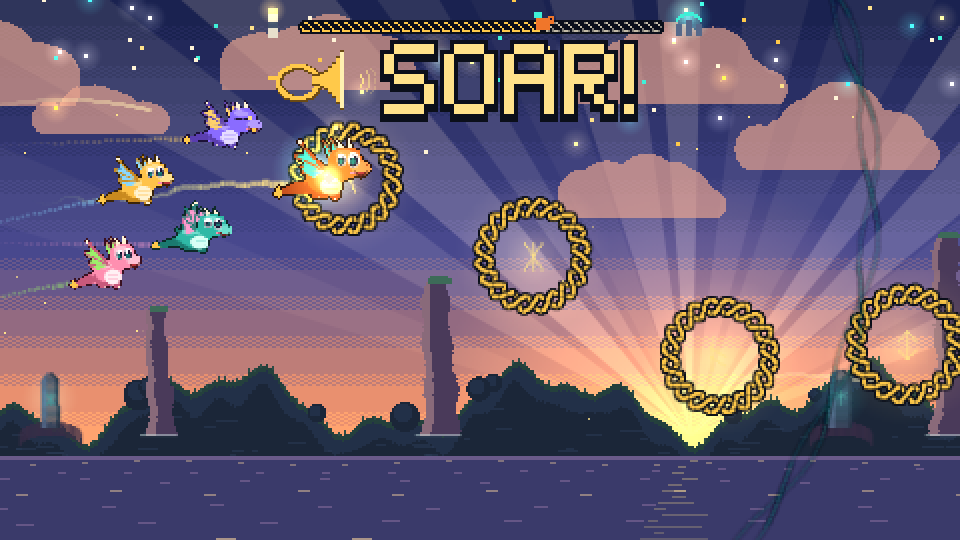
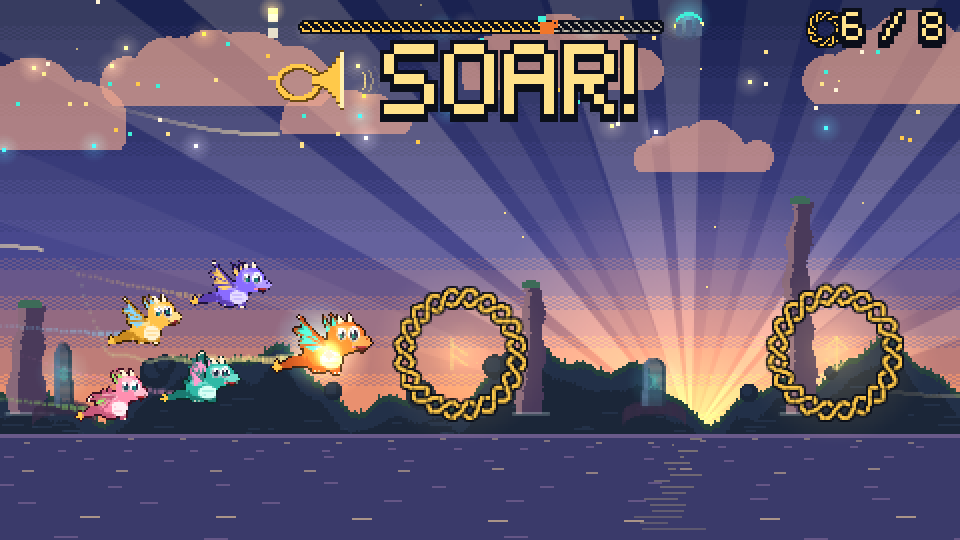
docs + pitch images for the clarity pass

diff --git a/DESIGN_INTENT.md b/DESIGN_INTENT.md
@@ -6,11 +6,11 @@
 | | | |
 |---|---|---|
 | ![](design/02-find-the-eyes.png) | ![](design/03-wing-glow-burst.png) | ![](design/04-brass-swell.png) |
-| *Your light cuts the fog* | *Found! A happy wiggle, wings glowing again* | *The brass swell: the flock joins* |
+| *FIND THE EYES, with a trail of light to them* | *YOU FOUND EMBER!* | *The brass swell: the flock joins* |
 
 ## Guest experience overview
 
-A guest steps onto the footprints in front of a 10-foot projection, raises a big lantern prop, and becomes the keeper of a tiny northern lighthouse. In **about 38 seconds** (never more than about 41), their light finds a frightened young dragon in a storm, gives it the courage to fly, and guides it home under the aurora. There is no losing, no reading, and no clicking. The guest just points a light.
+A guest steps onto the footprints in front of a 10-foot projection, raises a big lantern prop, and becomes the keeper of a tiny northern lighthouse. In **about 40 to 50 seconds**, their light finds a frightened young dragon in a storm, gives it the courage to fly, and guides it home under the aurora. There is no losing, no reading, and no clicking. The guest just points a light.
 
 The line behind them is the audience. While they wait, a storybook on screen turns its own pages and a "ghost" player shows exactly what to do. By the time their turn comes, they already know how to play.
 
@@ -19,8 +19,8 @@ The line behind them is the audience. While they wait, a storybook on screen tur
 | Beat | Time | What the guest sees and does |
 |---|---|---|
 | **Next Flyer** | loop | A storybook shows the storm, the lost dragon, a ghost player demo, and "Hear it in Act II". The screen says *STEP HERE · RAISE YOUR LIGHT*. Holding the light on the lantern for 1 s starts the story. |
-| **1. Find Ember** | ~6 s | "EMBER IS LOST!" A dark, rainy cliff in the fog. The guest's lantern beam, shining from the lighthouse (a nod to the bat-signal proof of concept), cuts through the fog. Two small eyes blink. The guest holds the light steady and a Celtic knotwork ring fills. Jerky light makes Ember flinch; calm light makes it lean in. Ember crouches, pops up, does a happy wiggle, and its wings reignite in teal and gold: **EMBER!** |
-| **2. First Flight** | 20 s | Ember follows the light (a dotted trail of light shows it's following *you*) out over sea stacks and standing stones, through rune rings that arrive on the beat. A track across the top shows the journey from the lighthouse to home. The flight starts wobbly under slate-blue skies. Ember cheers at every ring and does a barrel roll after three in a row. At the **brass swell** the sky holds its breath, then golden rays, a knotwork shockwave and confetti burst out, a horn icon appears, and four flock-mates swoop in with light trails. A missed ring is never a failure: Ember does a happy loop and the ring's sparkles find it anyway. |
+| **1. Find Ember** | ~6-15 s | A title card: *EMBER IS LOST!* Then a dark, rainy cliff in the fog. The guest's lantern beam, shining from the lighthouse (a nod to the bat-signal proof of concept), cuts through the fog. One instruction at a time, each with a tiny demo: *MOVE YOUR LIGHT*, then *FIND THE EYES*, then *HOLD STILL*. A knotwork ring on the eyes fills while the light is on them and simply pauses if it slips off. If someone is struggling, the hints get stronger (bigger eyes, a trail of light to them, the beam leaning their way), but the guest always does the finding. Then everything holds still for **YOU FOUND EMBER!** as Ember crouches, pops up and wiggles, wings lit again. |
+| **2. First Flight** | ~20 s | A title card: *NOW FLY HOME!* Then *EMBER FOLLOWS YOUR LIGHT*, with an arrow from the light to Ember, and *FLY THROUGH THE HOOPS*. The first hoop waits right next to Ember until the guest steers through it. Then 7 more arrive on the beat, one every two seconds, with a "3 / 8" counter and a track showing the journey from the lighthouse to home. The flight starts under slate-blue skies and warms to gold. Ember cheers at every hoop and does a barrel roll after three in a row. At the **brass swell** the sky holds its breath, then golden rays, a knotwork shockwave and confetti burst out, a horn icon appears, and four flock-mates swoop in with light trails. A missed hoop is never a failure: Ember does a happy loop and the hoop's sparkles find it anyway. |
 | **3. Home** | 6.5 s | The flock circles a stone circle under the northern lights. The path the guest flew is drawn across the sky like a comet, then lifts and becomes a **new aurora ribbon that stays for the rest of the evening**. A shimmer runs across the whole aurora, the counter rolls up (*37 DRAGONS HOME TONIGHT*), and a banner appears: *HEAR IT LIVE IN ACT II*. |
 | **4. Hear it live** | 3 s | Three big lines: *ACT II · How to Train Your Dragon · Listen for the brass!* Then the screen returns to *Next Flyer*. The full credit (Walla Walla Symphony Youth Orchestra) is on the storybook's music page for the line to read while they wait. |
 
@@ -39,7 +39,7 @@ It should feel warm, windswept, hopeful and proud. Every guest succeeds, and eve
 - **Prop:** a big cardboard lantern tracked by motion capture drives the on-screen light. A mouse or touch works as a backup, with no code changes.
 - **Operator:** one laptop running the game locally (no internet needed). Hidden keys: fullscreen, reset, skip, debug, clear, audio.
 - **Sound:** not required. The lobby is loud and the game is fully visual. Optional ambience can be turned on if the space allows.
-- **Throughput:** about 38 s per guest plus a short handoff, so roughly 35 guests per 30-minute shift, or 100+ over the 90-minute pre-show. The game resets itself after 10 s without input.
+- **Throughput:** about 40 to 50 s per guest plus a short handoff, so roughly 30 guests per 30-minute shift, or about 90 over the 90-minute pre-show. The game resets itself after 10 s without input.
 - **Accessibility:** no flashing faster than 3 times per second, no fail states, and color is never the only signal (brightness, shape and motion carry every cue). It works seated, and a phone version works in landscape via the public URL.
 
 ## How it connects to the music

diff --git a/README.md b/README.md
@@ -67,13 +67,14 @@ The aurora (every guest's ribbon, plus the "N dragons home tonight" count) is sa
 | Scene | Target | Notes |
 |---|---|---|
 | Attract | loop | 1 s hold on the lantern starts a run |
-| Find Ember | ~5-8 s | Opens with "EMBER IS LOST!", then a 2 s steady hold on the eyes. Assists at 3 s (sparks lead the way), 4.5 s (Ember hops to the light) and 7 s (auto-complete) |
-| Flight | 20 s fixed | Rings on the beat (120 BPM), a lighthouse-to-home track across the top. Brass swell at 62% (with a ~0.7 s wind-up), climb at 90% |
+| Title card | 1.3 s | "EMBER IS LOST!" before Find Ember, "NOW FLY HOME!" before the flight. The next scene is paused underneath (`DUR.TITLE`) |
+| Find Ember | ~5-15 s | One instruction at a time, each up at least 2 s: MOVE YOUR LIGHT, FIND THE EYES, HOLD STILL (with a tiny framed demo). The hold ring sits on the eyes and pauses (never resets) when the light slips off. Hints get stronger with active pointing time: bigger eyes at 4 s, a dotted trail to the eyes at 6.5 s, the beam leaning toward them at 9 s. Ember only comes to the light as a last resort at 10.5 s, and the guest still does the hold. Then a 1.6 s "YOU FOUND EMBER!" moment |
+| Flight | ~2-5 s tutorial + 18 s | EMBER FOLLOWS YOUR LIGHT (with an arrow), then FLY THROUGH THE HOOPS. Hoop 1 waits next to Ember until you fly through it (5 s cap), then the timeline starts: 7 more hoops, one every 2 s on the beat, always 8 in total with a "3 / 8" counter. Brass swell at 62% of the timeline, climb at 90%. Autopilot only after 3 s of a still pointer |
 | Home | 6.5 s | Ribbon lifts into the aurora, a shimmer runs across the sky, the counter rolls up, then "HEAR IT LIVE IN ACT II" |
 | End card | 3 s | "ACT II", the title, "LISTEN FOR THE BRASS!". Hold the small lantern to skip |
 | Scene fades | 0.4 s | `DUR.FADE` |
 
-Measured by the Playwright suite: **~38 s** for a typical guest, **~40.5 s** for a guest who never finds Ember on their own (the test fails above 41 s). **Idle reset:** 10 s without input during Find Ember or Flight returns to attract. The assists only count time while someone is actually pointing, so an abandoned game resets instead of playing itself.
+Measured by the Playwright suite: **~40 s** for a guest who knows what to do, **~49 s** for one who never finds Ember on their own (the test fails above 50 s), and about 52 s for a completely clueless guest who wanders the whole time (`tests/clueless.spec.js`, notes in `notes/clueless-after.md`). **Idle reset:** 10 s without input during Find Ember or Flight returns to attract. The assists only count time while someone is actually pointing, so an abandoned game resets instead of playing itself.
 
 **Slow laptops:** the game clock follows real time even when frames drop (it catches up in small steps, `LOOP` in `config.js`), so a choppy laptop doesn't make runs longer. Below about 4 fps it starts to slow down, and a frozen or backgrounded tab only moves the game forward a quarter second when it comes back. The YOURS! label after a run lasts `DUR.YOURS_LABEL` (15 s).
 
@@ -162,6 +163,8 @@ This builds the site, serves it, and runs Playwright:
 - **`tests/fullrun.spec.js`**: a scripted guest plays a whole run by pointer only. It asserts 35-45 s, that the ribbon persists across a refresh, that a guest who never finds Ember still finishes in time, and that the end card can be skipped.
 - **`tests/idle.spec.js`**: walking away during Find Ember or Flight resets to attract after about 10 s.
 - **`tests/input.spec.js`**: the mocap pointer path, the clear confirmation, the portrait "rotate your phone" hint, and the touch offset.
+- **`tests/runs.spec.js`**: three flights in a row on one page all reach Home, and a cold first run and a second run both get all 8 hoops, each on screen at least 1.5 s before it arrives.
+- **`tests/clueless.spec.js`**: three wandering guests in a row: Find Ember never finishes before 10 s, every instruction is up at least 2 s, every run gets the same 8 hoops.
 - **`tests/story.spec.js`**: the story beats show up when they should: "EMBER IS LOST!" first, the Act II line during Home, the brass swell's wind-up, firing and flock join, and "YOURS!" on attract after a finished run (but not after an idle reset).
 - **`tests/framerate.spec.js`**: at 8 fps the game clock still keeps real time, a frozen tab only nudges the game forward, and a full run at ~8 fps lands within 2 s of a normal one.
 - **`tests/motion.spec.js`**: reduced motion follows the OS setting, **G** cycles and is remembered, no shake and a calmer camera when reduced.

diff --git a/PLAYTEST.md b/PLAYTEST.md
@@ -46,8 +46,11 @@ Stand 15 ft from the wall (measure it), at the far edge of where the line will b
 
 Start the stopwatch the moment the lantern ring finishes filling. Stop it when the attract screen is back.
 
-- [ ] Run 1, finding Ember quickly: ____ s (expect about 38)
-- [ ] Run 2, someone who "can't find it" (wave the light around the top of the screen): ____ s (expect about 40.5, never over 45)
+- [ ] Run 1, someone who knows the game: ____ s (expect about 40)
+- [ ] Run 2, someone who "can't find it" (wave the light around the top of the screen): ____ s (expect about 49, around 50 at most)
+- [ ] Run 3, a first-timer who has never seen it (grab someone, explain nothing): ____ s, and write down the first moment they looked confused: ____
+- [ ] Do the instructions (MOVE YOUR LIGHT / FIND THE EYES / HOLD STILL, then EMBER FOLLOWS YOUR LIGHT / FLY THROUGH THE HOOPS) read from 15 ft? ____
+- [ ] Does the first-timer get through the waiting tutorial hoop on their own? ____
 - [ ] Ember follows the light without lag or jitter? ____
 - [ ] The dragon count went up by one after each run
 
